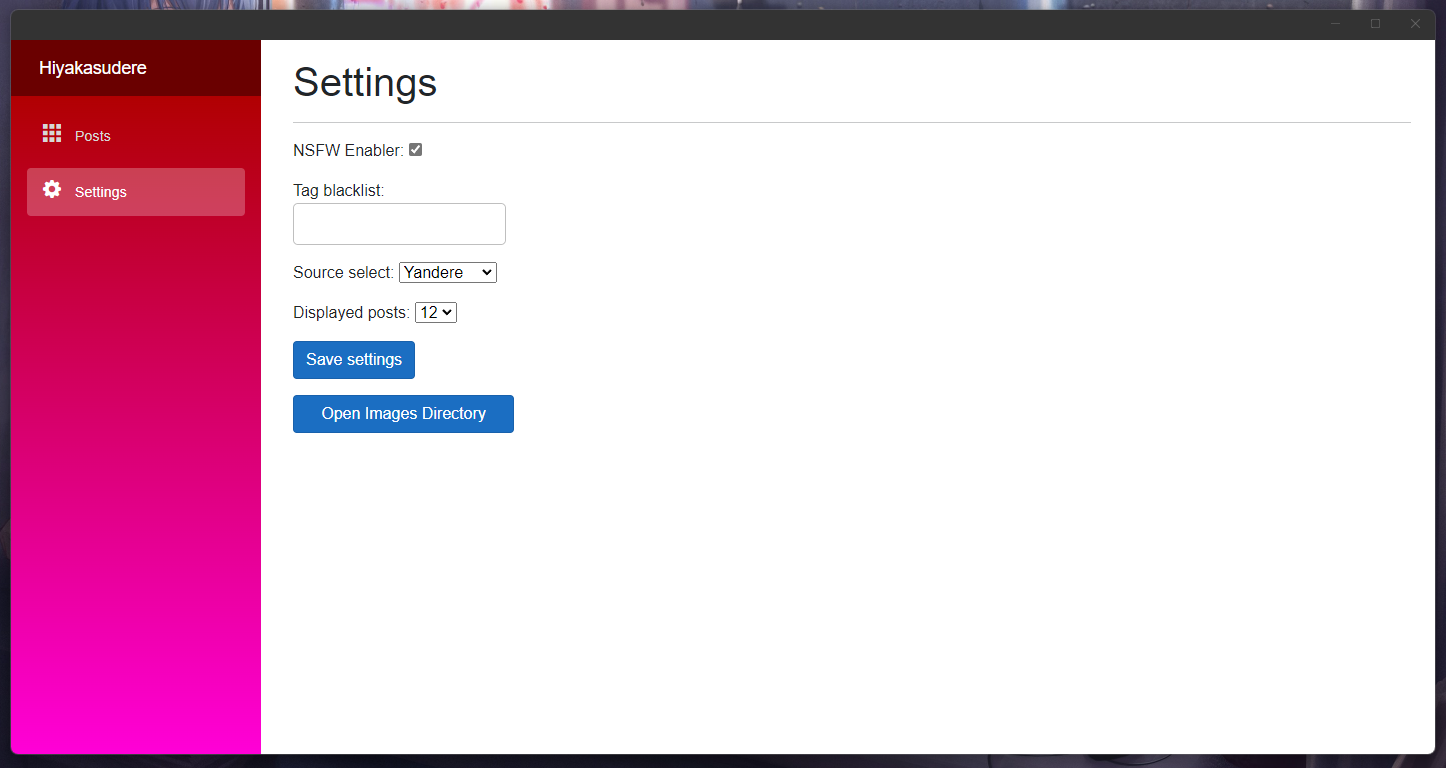
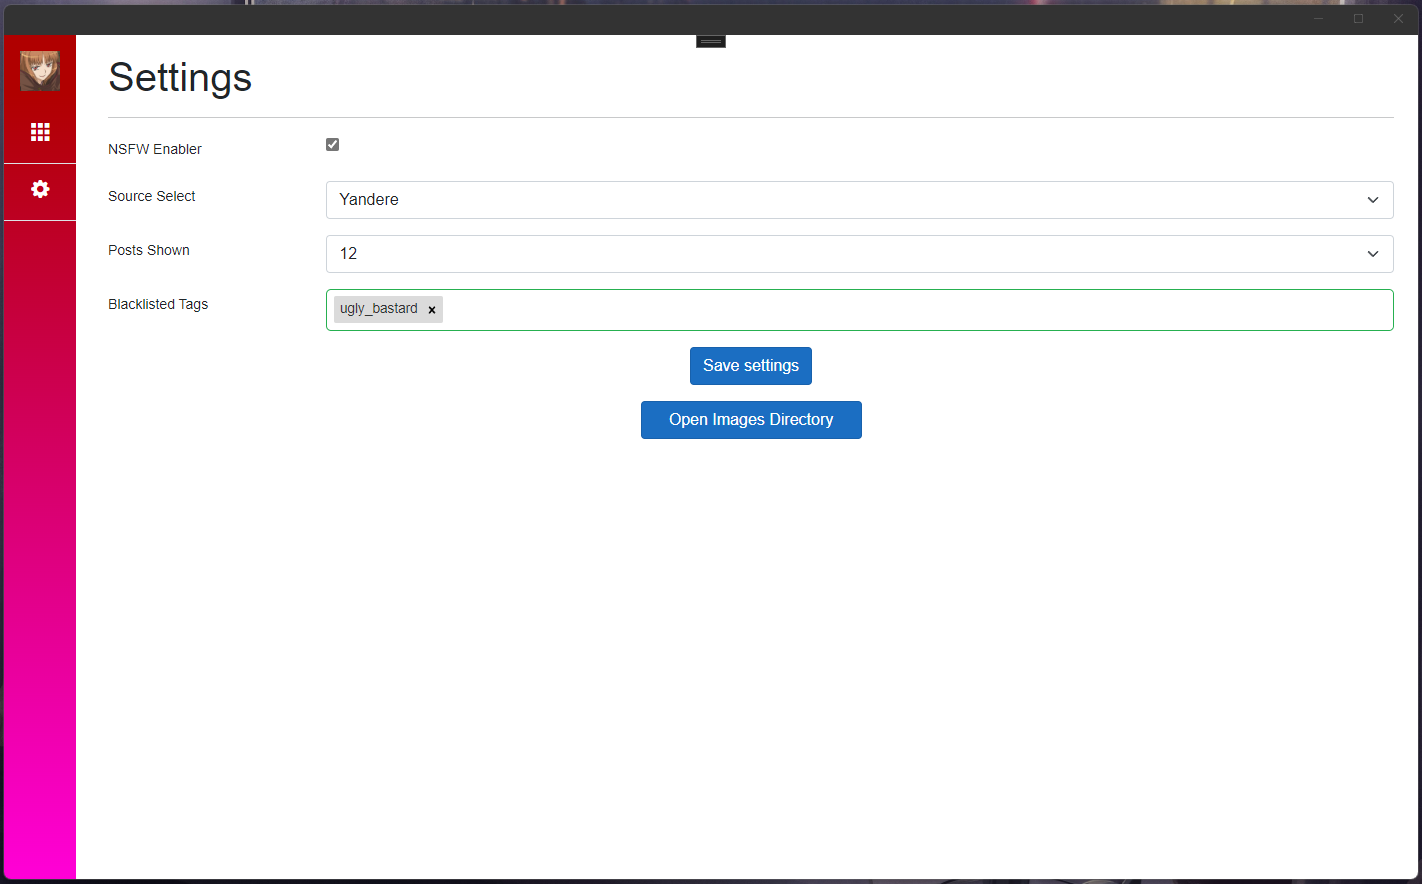
Visual update

Changed region(s): [[0.0, 0.0, 1.0, 1.0], [0.4332, 0.375, 0.6188, 0.5]]

diff --git a/Hiyakasudere/Shared/MainLayout.razor.css b/Hiyakasudere/Shared/MainLayout.razor.css
@@ -56,7 +56,7 @@ main {
     }
 
     .sidebar {
-        width: 250px;
+        width: 4.5rem;
         height: 100vh;
         position: sticky;
         top: 0;
